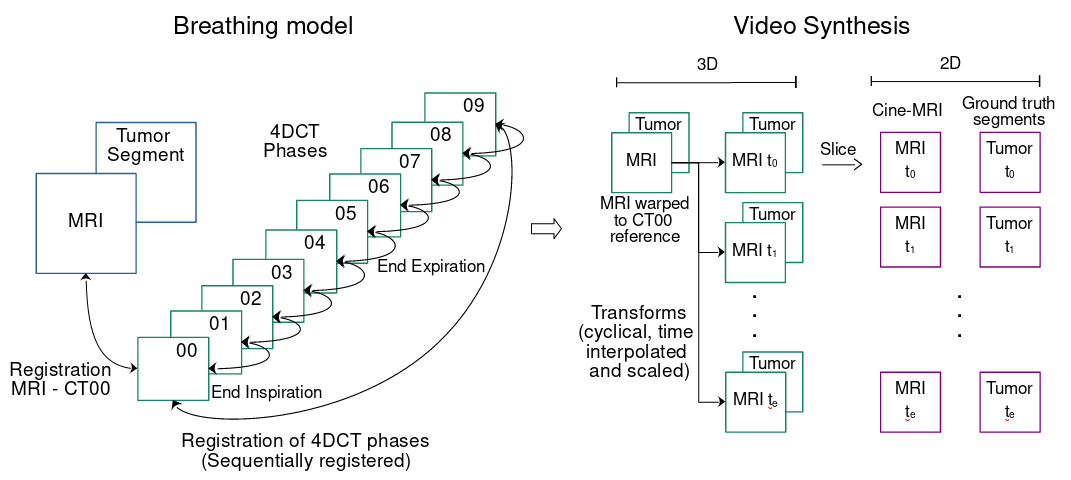
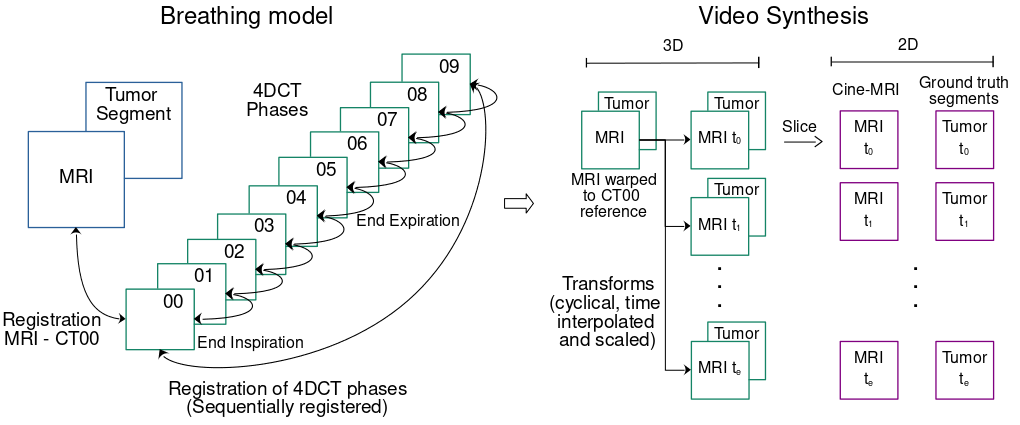
Improve README

diff --git a/README.md b/README.md
@@ -6,7 +6,10 @@ This is a patient-specific 2D Cine-MRI simulator capable to generate a simulated
 Desing
 ------
 
-Figure [CineMR Simulator][./design/cinemr_simulation.png] illustrates the video simulation process. The process comprises two stages: breathing modeling and video synthesis. The breathing model is a pre-processing stage and uses full 3D information to consider out-of-plane motion in the 2D Cine-MRI. The video synthesis stage can be run several times changing the simulation parameters to create different variants and motion conditions. 
+The figure below illustrates the video simulation process. The process comprises two stages: breathing modeling and video synthesis. The breathing model is a pre-processing stage and uses full 3D information to consider out-of-plane motion in the 2D Cine-MRI. The video synthesis stage can be run several times changing the simulation parameters to create different variants and motion conditions.
+
+![CineMR Simulator](https://github.com/josetascon/cinemri-simulation/blob/main/design/cinemri_synthesis.png)
+
 
 Dependencies
 ------------
@@ -20,7 +23,8 @@ Python:
 * SimpleITK >= 2.0
 
 External:
-* ANTs [webpage](http://stnava.github.io/ANTs/)
+* ANTs [webpage](http://stnava.github.io/ANTs/)\
+Note: You require to have ANTs installed in your system with a working binary command 'antsRegistration'.
 
 ---
 
@@ -35,15 +39,15 @@ To run a simulation you require a set of images. A sample image folder is provid
 Citation
 --------
 
-To cite when using this toolbox, please reference, as appropriate:
-@inproceedings{tascon2021cine,
-  title={Cine-MRI simulation to evaluate tumor tracking},
-  author={Tascón-Vidarte, José D. and Wahlstedt, Isak and Jomier, Julien and Erleben, Kenny and
-  Vogelius, Ivan R. and Darkner, Sune},
-  booktitle={International Workshop on Simulation and Synthesis in Medical Imaging},
-  pages={1--10},
-  year={2021},
-  organization={Springer}
+To cite when using this toolbox, please reference, as appropriate:\
+@inproceedings{tascon2021cine,\
+  title={Cine-MRI Simulation to Evaluate Tumor Tracking},\
+  author={Tasc{\'o}n-Vidarte, Jos{\'e} D and Wahlstedt, Isak and Jomier, Julien \
+  and Erleben, Kenny and Vogelius, Ivan R and Darkner, Sune},\
+  booktitle={International Workshop on Simulation and Synthesis in Medical Imaging},\
+  pages={131--141},\
+  year={2021},\
+  organization={Springer}\
 }
 
 
